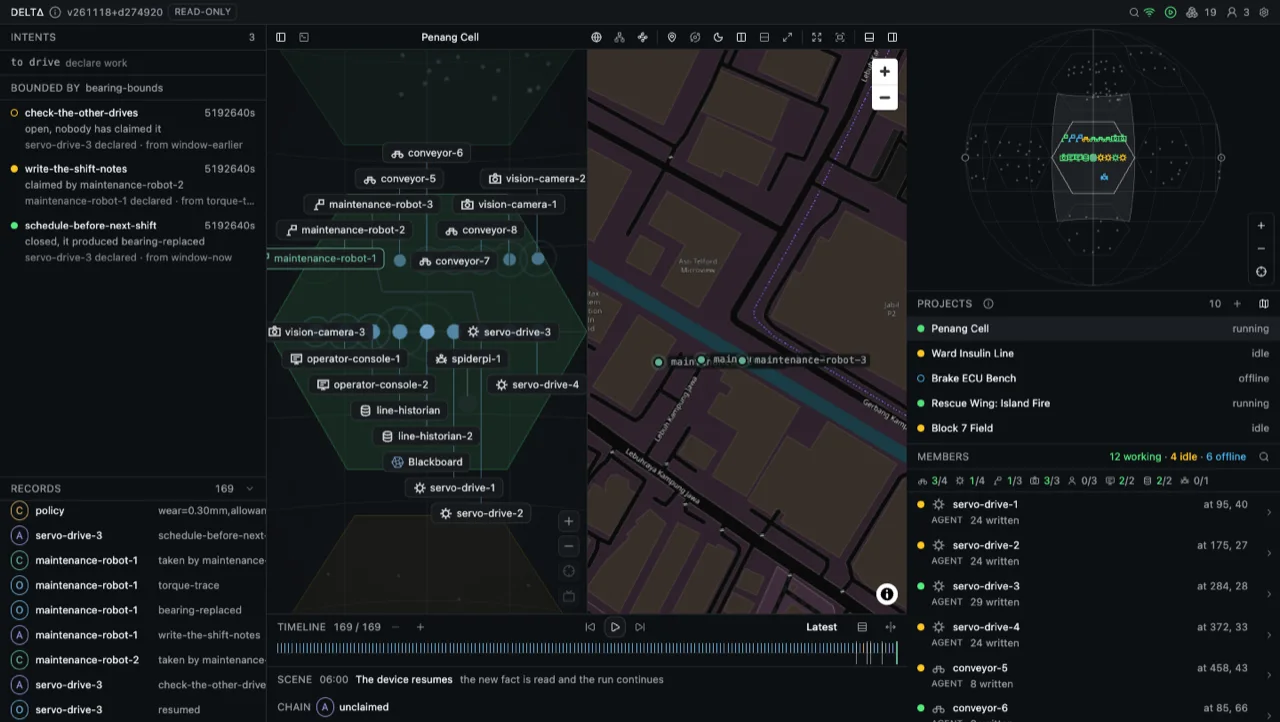
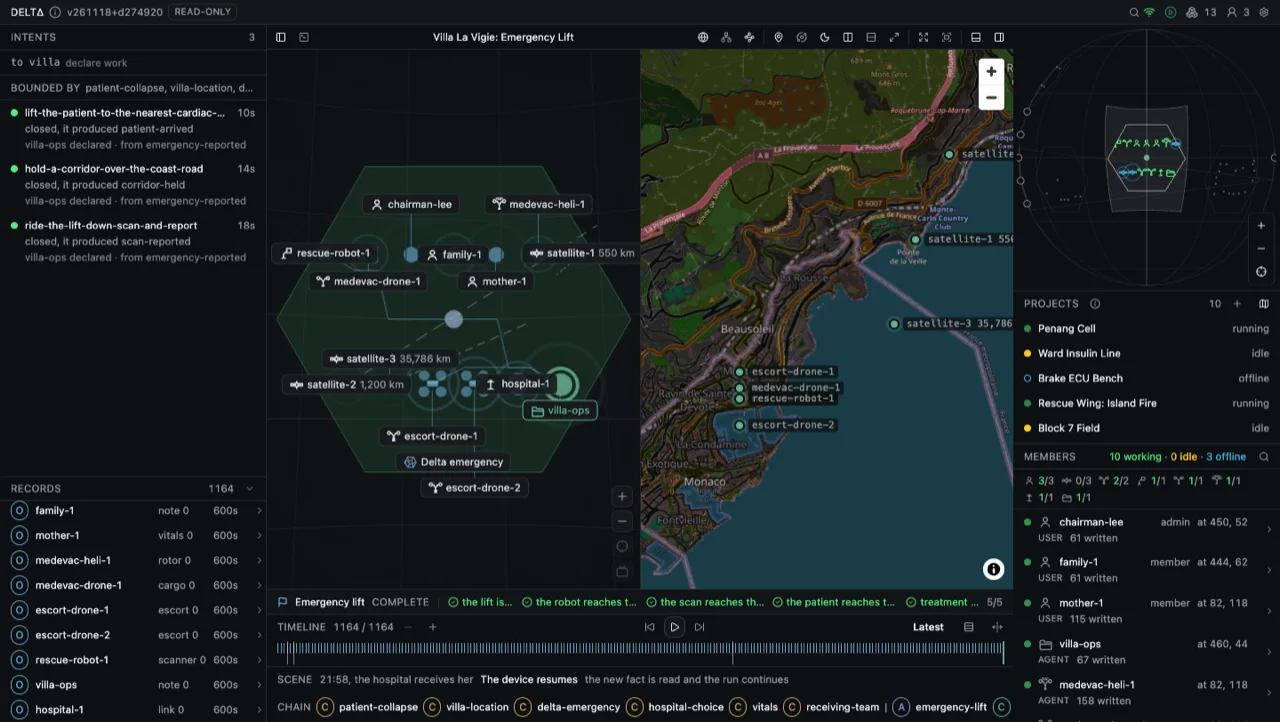
docs: the showcase is drawn at the frame's own default
The right column came up wider than it needs to be, so every shot of it was a frame nobody opens by
default. The three are taken again at the column's floor, and Delta's subject is the villa lift
rather than the factory cell: the members, the drives they declared, and the record the call left,
over the ground it came from.

Changed region(s): [[0.0, 0.0305, 0.9688, 1.0], [0.0, 0.7008, 0.2188, 1.0]]

diff --git a/README.md b/README.md
@@ -73,19 +73,19 @@ address, the record model, the panels and the projection come from here.
 
 ![Theoros: a region of New Eden, its systems, and one quarter's market](docs/showcase/theoros.webp)
 
-Theoros reads The Forge from ESI: ninety systems, 5,987 celestial units, and the
-market and the killmails one quarter stands on. Its space pane is its own picture, registered as a reading, and a system's
-inventory is a second reading over the same place.
+Theoros reads The Forge from ESI: ninety systems, 5,987 celestial units, and the market and the killmails one quarter
+stands on. Its space pane is its own picture, registered as a reading, and a system's inventory is a second reading over
+the same place.
 
 ![neXus: a reporting quarter read as a chain, over a site map](docs/showcase/nexus.webp)
 
 [neXus](https://github.com/ssccsorg/nexus) demonstrates its reference storage node: one reporting quarter read as a chain
 of requirements, measurements and evidence, beside a map of the site the figures came from.
 
-![Delta: a factory cell, its members, and the line's own record](docs/showcase/delta.webp)
+![Delta: an emergency lift at a villa above the coast, its members, and the record the call left](docs/showcase/delta.webp)
 
-[Delta](https://demo.ktema.systems/delta/) is the cockpit of the kletos stack: a factory cell's members, their
-drives, and the record the line reads, on a floor plan and a site map.
+[Delta](https://demo.ktema.systems/delta/) reads an emergency lift at a villa above the coast: the members, the drives
+they declared, and the record the call left, over the ground it came from.
 
 ## Consuming
 
